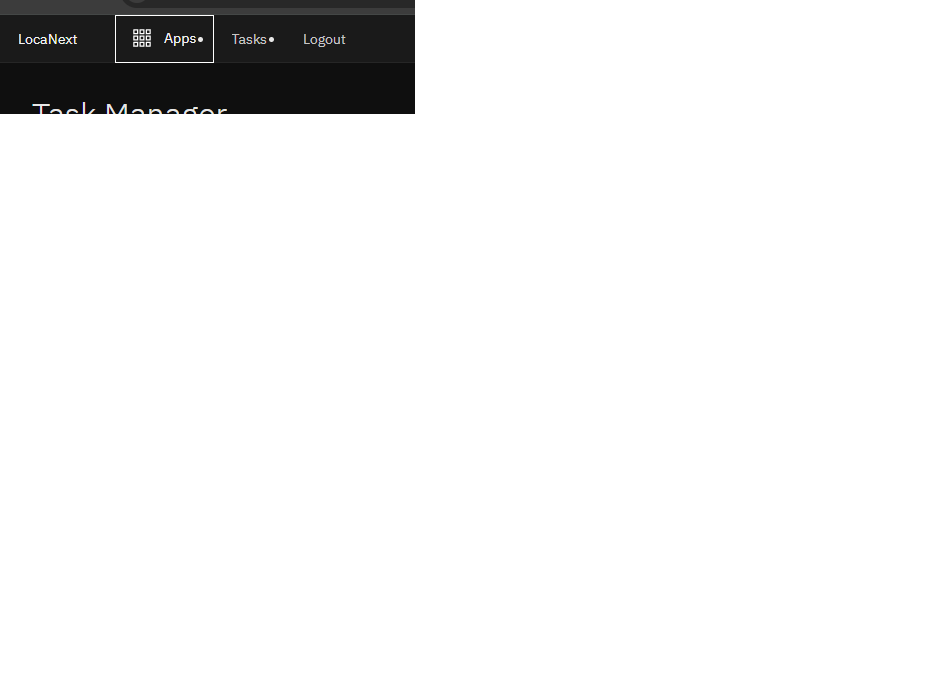
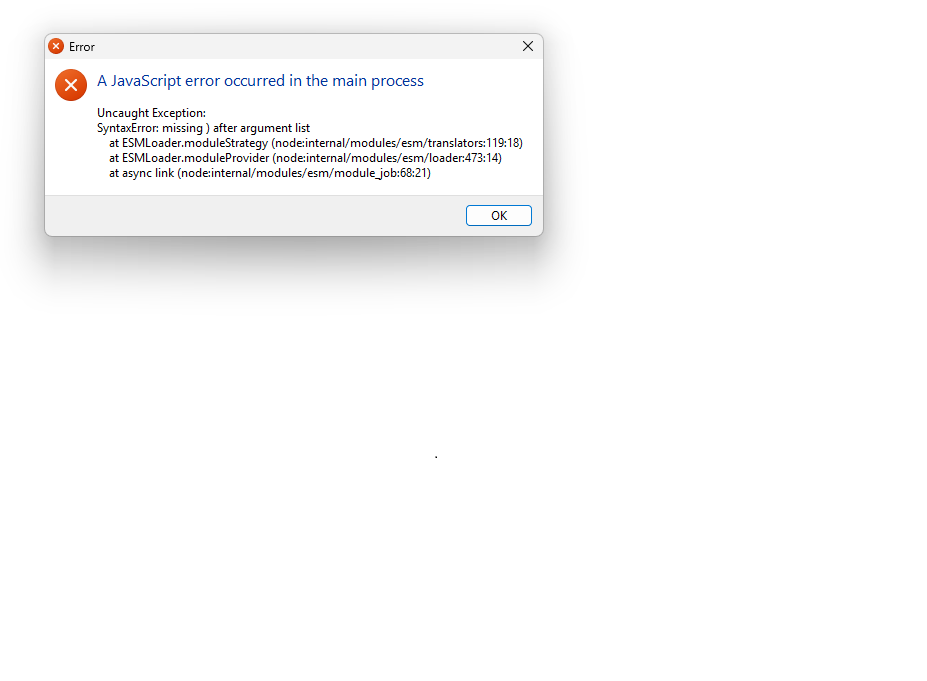
Build v2512042345 - FIX: Missing parenthesis syntax error
The ACTUAL error was: SyntaxError: missing ) after argument list
Line 333: ipcMain.handle('quit-and-install') was missing closing );

This was NOT a logger issue - it was a simple syntax error that existed
in the codebase before my changes. The screenshot showing the error
dialog made this immediately clear.

🤖 Generated with [Claude Code](https://claude.com/claude-code)

Changed region(s): [[0.0, 0.0, 0.6041, 0.4009]]

diff --git a/locaNext/electron/main.js b/locaNext/electron/main.js
@@ -28,6 +28,25 @@ process.on('unhandledRejection', (reason, promise) => {
   logger.critical('UNHANDLED REJECTION', { reason: String(reason), promise: String(promise) });
 });
 
+// ==================== INTERCEPT ERROR DIALOGS ====================
+// Capture error dialog content BEFORE it shows, log it, then show it
+const originalShowErrorBox = dialog.showErrorBox;
+dialog.showErrorBox = (title, content) => {
+  // LOG THE ERROR FIRST
+  logger.critical('ERROR DIALOG INTERCEPTED', { title, content });
+  // Then show it to user
+  originalShowErrorBox(title, content);
+};
+
+// Catch renderer/GPU crashes
+app.on('render-process-gone', (event, webContents, details) => {
+  logger.critical('RENDERER CRASHED', { reason: details.reason, exitCode: details.exitCode });
+});
+
+app.on('child-process-gone', (event, details) => {
+  logger.critical('CHILD PROCESS GONE', { type: details.type, reason: details.reason });
+});
+
 // Log startup immediately
 logger.info('================== APP STARTING ==================');
 logger.info('Process info', {
@@ -311,7 +330,7 @@ ipcMain.handle('quit-and-install', async () => {
   logger.info('Quitting and installing update...');
   autoUpdater.quitAndInstall();
   return { success: true };
-}
+});
 
 /**
  * IPC: Check for updates manually

diff --git a/version.py b/version.py
@@ -7,7 +7,7 @@ Based on VRS-Manager version management pattern
 
 # Version in DateTime format: YYMMDDHHMM
 # Example: 2511221939 = November 22, 2025, 19:39
-VERSION = "2512042327"
+VERSION = "2512042345"
 
 # Version footer for UI display
 VERSION_FOOTER = f"ver. {VERSION} | AI-Powered Localization Platform | XLSTransfer + QuickSearch"
@@ -20,7 +20,7 @@ BUILD_TYPE = "LIGHT"  # FULL (with AI model) or LIGHT (without AI)
 
 # Release info
 RELEASE_DATE = "2025-12-04"
-RELEASE_NAME = "Bulletproof Logger v4 - process.execPath"
+RELEASE_NAME = "Syntax Fix + Error Dialog Interceptor"
 
 # Repository info
 REPOSITORY_URL = "https://github.com/NeilVibe/LocalizationTools"
